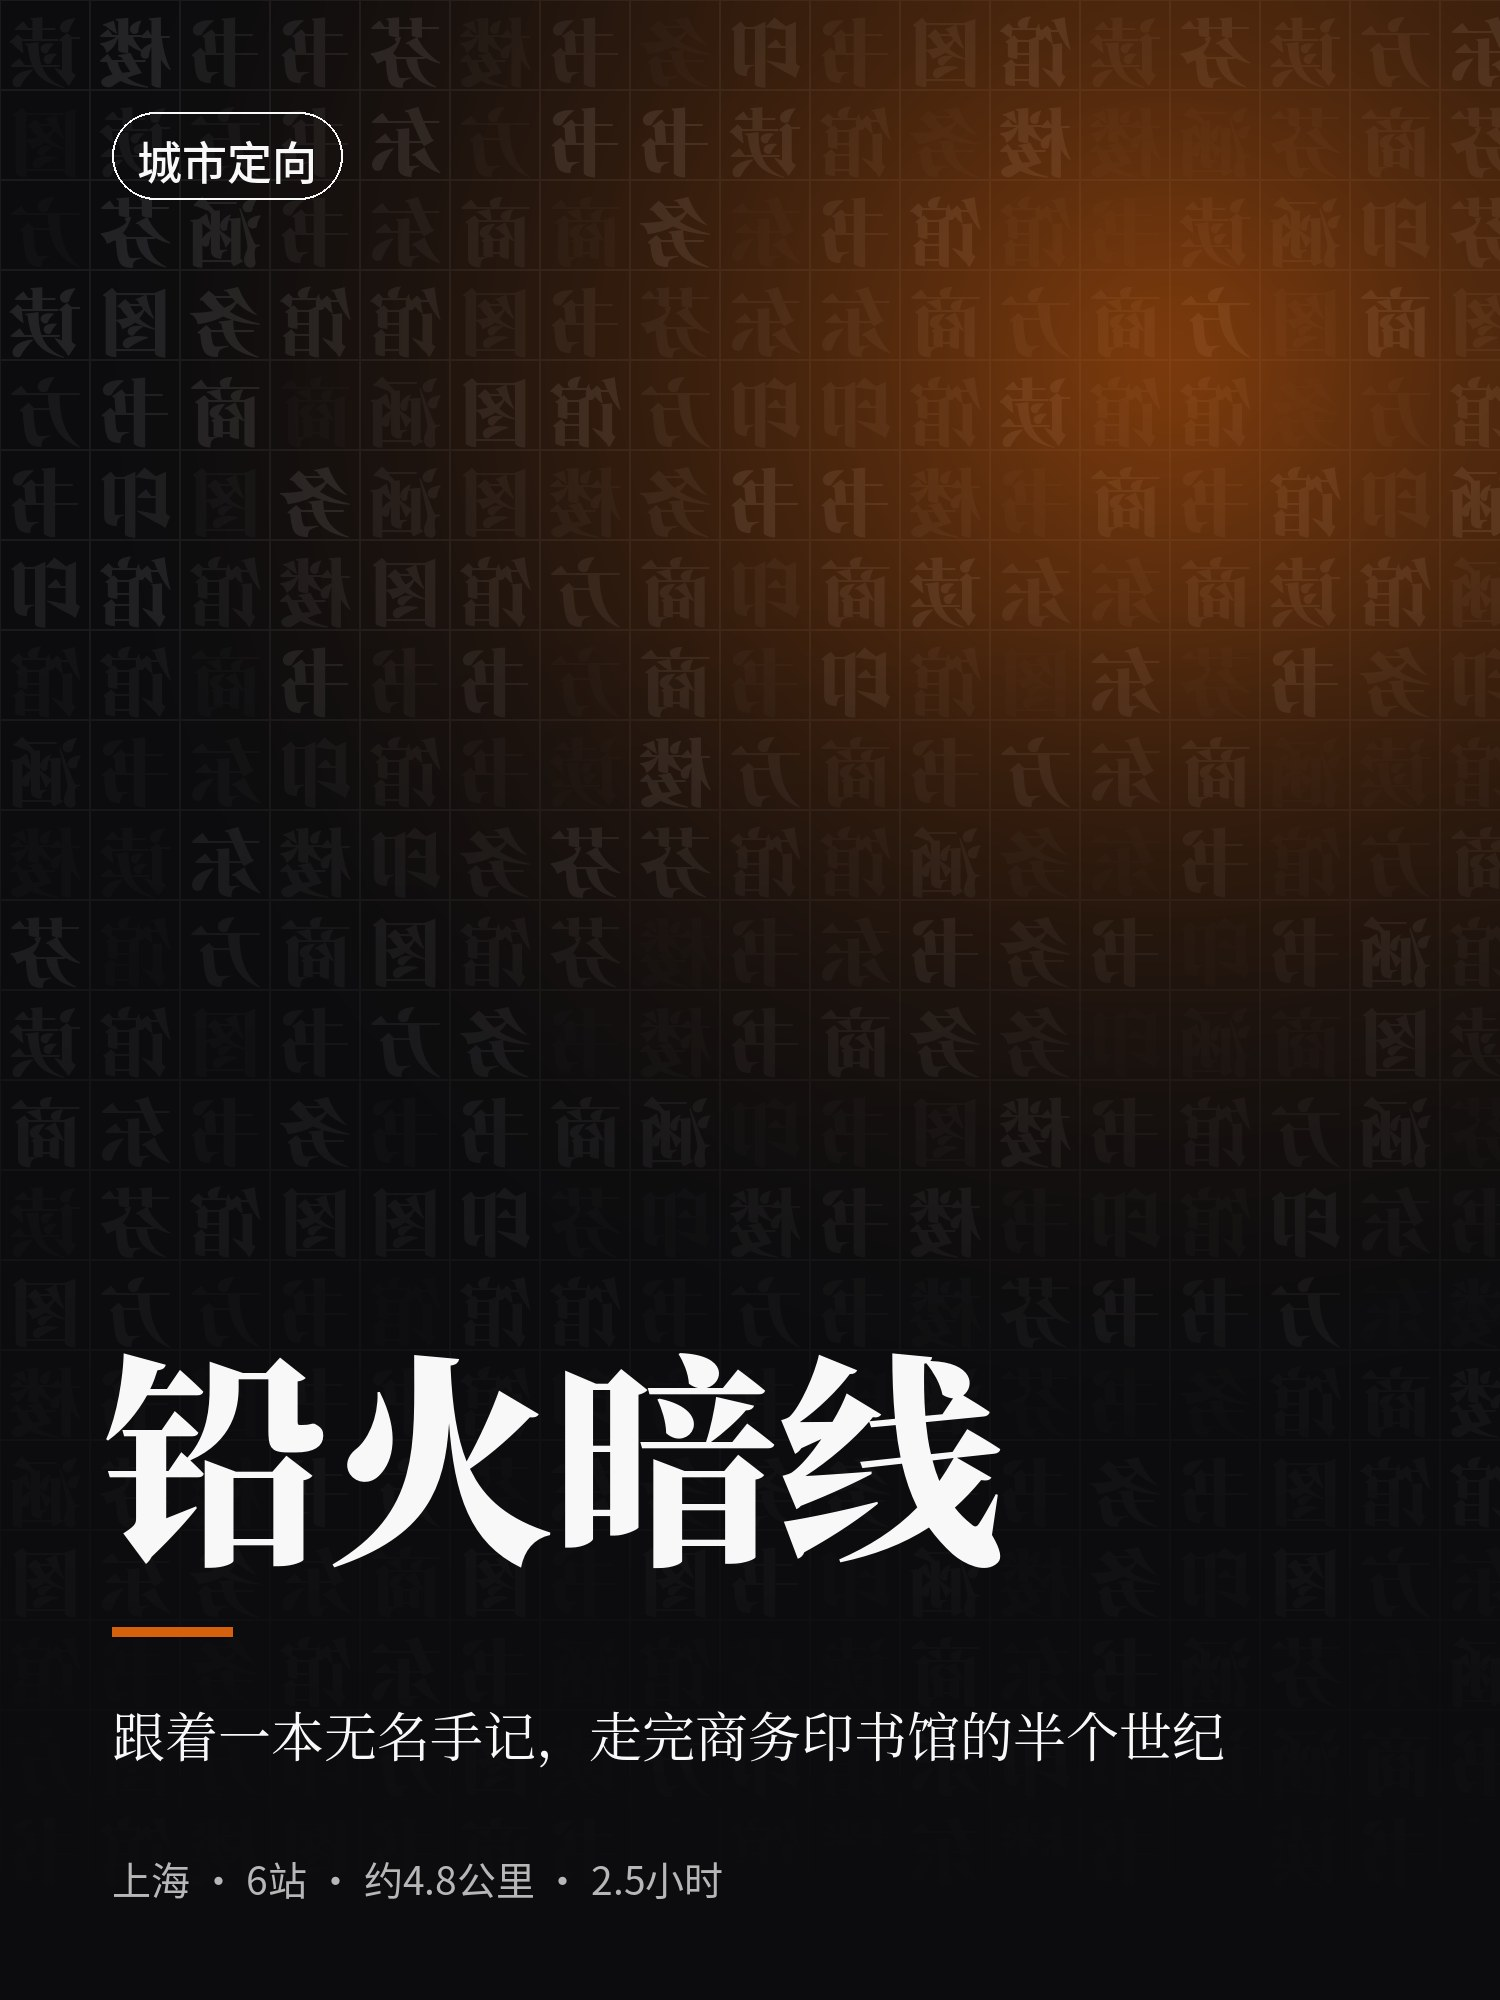
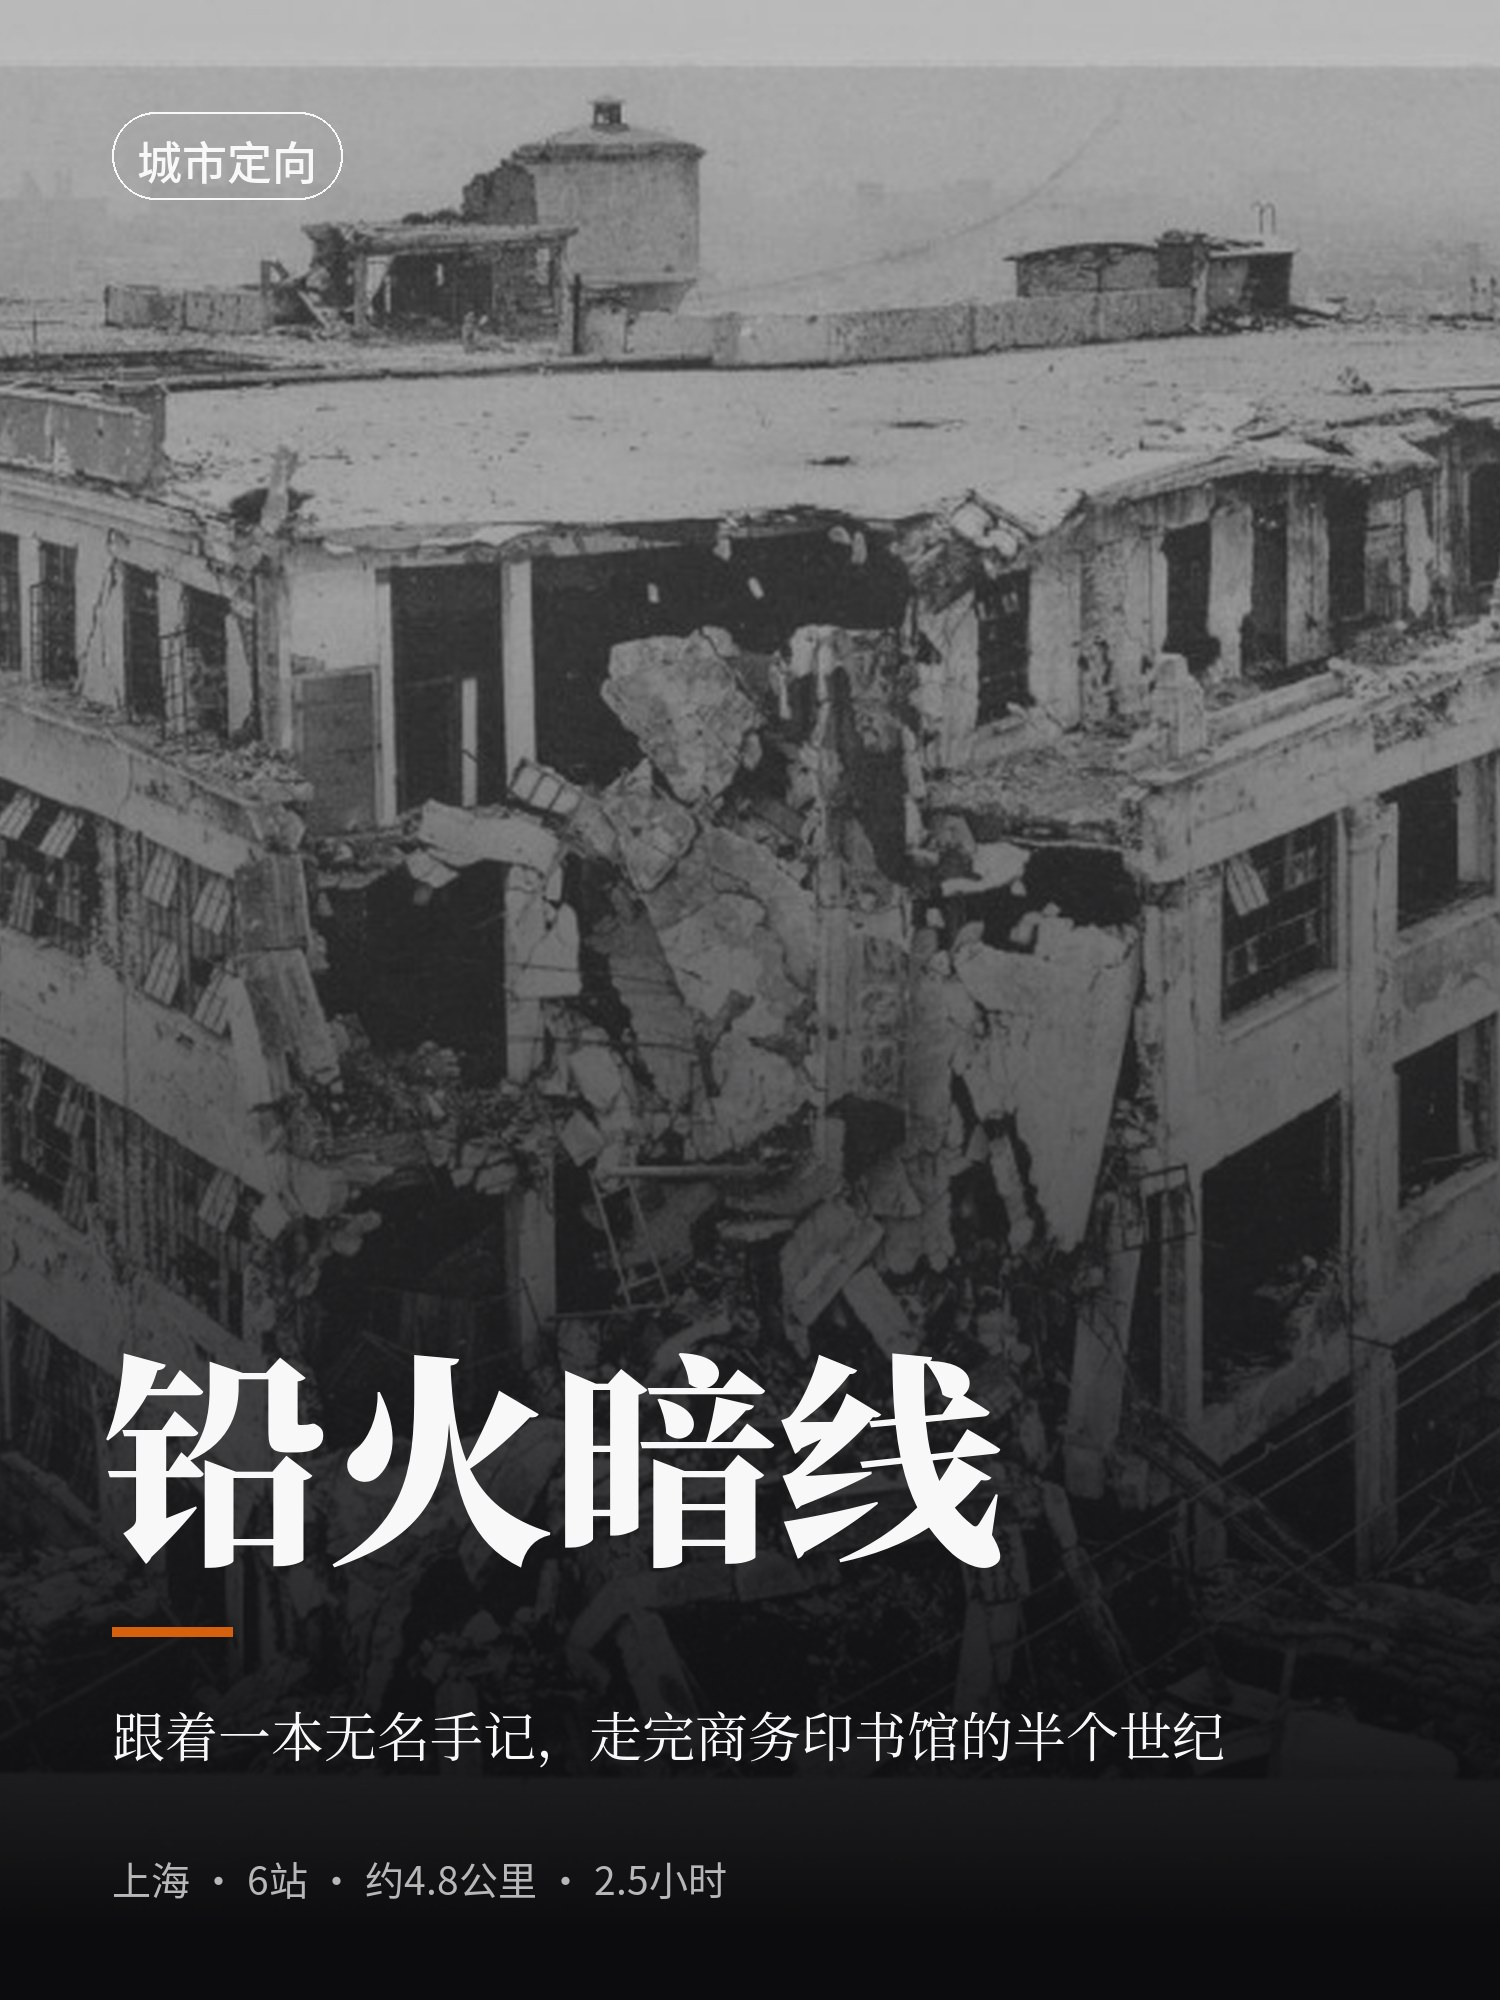
docs: 城市定向站点高清配图（Commons 现场核验许可，19/20）与照片底封面

diff --git a/docs/delivery/city-routes-20261029/images/CREDITS.md b/docs/delivery/city-routes-20261029/images/CREDITS.md
@@ -1,47 +1,37 @@
-# 图片与字体署名
+# 图片署名（下载时由 Commons API 自动核验）
 
-> **状态：站点照片还没有下载，署名也还没有最终核验。** 本次运行的网络策略挡住了 `commons.wikimedia.org` 和 `upload.wikimedia.org`，所以下表只是候选清单：
-> 文件名来自搜索结果里的真实 Commons 页面，作者、许可和尺寸是搜索摘要里能看到的信息，标“待核”的项目还没有核实。
-> 在能访问 Commons 的机器上运行 `python3 tools/fetch_images.py images/manifest.json images`，脚本会在下载时通过 Commons API 读取每个文件的作者和许可，
-> 只保留允许商用的许可（CC0、公有领域、CC BY、CC BY-SA），并自动用核验后的内容**覆盖**本文件。
+- `commercial-press/a1-movable-type.jpg`（A1）：User:CatOnMars / Wikimedia Commons / CC BY 4.0 — https://commons.wikimedia.org/wiki/File:Lead-made_Chinese_Movable_Types,_Hangzhou_National_Archives_112.jpg
+- `commercial-press/a1-metal-type.jpg`（A1）：Willi Heidelbach / Wikimedia Commons / CC BY 2.5 — https://commons.wikimedia.org/wiki/File:Metal_movable_type.jpg
+- `commercial-press/a3-foochow-road-1927.jpg`（A3）：佚名 / Wikimedia Commons / Public domain — https://commons.wikimedia.org/wiki/File:Shanghai_of_Today,_Plate_22_-_Foochow_(Fuzhou)_Road.jpg
+- `commercial-press/a3-henan-road.jpg`（A3）：Livelikerw / Wikimedia Commons / CC BY-SA 3.0 — https://commons.wikimedia.org/wiki/File:Middle_Henan_Rd._Shanghai.JPG
+- `commercial-press/a3-xia-ruifang.jpg`（A3）：File:SSID-11827378 創立三十年商務印書館志略.pdf: 商務印書館
+derivative work: Sebastian Wallroth / Wikimedia Commons / Public domain — https://commons.wikimedia.org/wiki/File:%E5%A4%8F%E7%91%9E%E8%8A%B3.jpg
+- `commercial-press/a4-shun-pao.jpg`（A4）：Livelikerw / Wikimedia Commons / CC BY-SA 4.0 — https://commons.wikimedia.org/wiki/File:Former_Shun_Pao_Building_Shanghai.JPG
+- `commercial-press/a5-ruins-1932.jpg`（A5）：佚名 / Wikimedia Commons / Public domain — https://commons.wikimedia.org/wiki/File:Commercial_Press_Ruins_Shanghai,_1932,_from_Japanese_postcard.jpg
+- `commercial-press/a6-press-1922.jpg`（A6）：Hawyih / Wikimedia Commons / Public domain — https://commons.wikimedia.org/wiki/File:Commercial_Press_Shanghai_1922.jpg
+- `commercial-press/a6-wang-yunwu.jpg`（A6）：中國公學民19年度冬季畢業紀念刊 / Wikimedia Commons / Public domain — https://commons.wikimedia.org/wiki/File:%E7%8E%8B%E9%9B%B2%E4%BA%942.jpg
+- `post/b1-customs-house.jpg`（B1）：Livelikerw / Wikimedia Commons / CC BY-SA 3.0 — https://commons.wikimedia.org/wiki/File:Shanghai_Customs_House.JPG
+- `post/b1-robert-hart.jpg`（B1）：Bain News Service, publisher / Wikimedia Commons / Public domain — https://commons.wikimedia.org/wiki/File:Sir_Robert_Hart,_seated_with_book_LCCN2014683527.jpg
+- `post/b2-bund-7.jpg`（B2）：Chainwit. / Wikimedia Commons / CC BY 4.0 — https://commons.wikimedia.org/wiki/File:Bangkok_Bank_Building_in_Shanghai_(Former_Great_Northern_Telegraph_Building)_(2024)_-_img_01.jpg
+- `post/b2-telegraph-1905.jpg`（B2）：Unlisted author. / Wikimedia Commons / Public domain — https://commons.wikimedia.org/wiki/File:Telegraph_Co_in_Shanghai_(1905).jpg
+- `post/b4-gpo-from-creek.jpg`（B4）：钉钉 / Wikimedia Commons / CC BY-SA 4.0 — https://commons.wikimedia.org/wiki/File:Shanghai_General_Post_Office_Building_from_Suzhou_Creek.jpg
+- `post/b5-gpo-2019.jpg`（B5）：Siyuwj / Wikimedia Commons / CC BY-SA 4.0 — https://commons.wikimedia.org/wiki/File:Former_Shanghai_General_Post_Office_Building,_2019-10-18_01.jpg
+- `post/b5-gpo-2019-b.jpg`（B5）：Siyuwj / Wikimedia Commons / CC BY-SA 4.0 — https://commons.wikimedia.org/wiki/File:Former_Shanghai_General_Post_Office_Building,_2019-10-18_02.jpg
+- `post/b6-red-revenue.jpg`（B6）：Post of China / Wikimedia Commons / Public domain — https://commons.wikimedia.org/wiki/File:Stamp_China_1897_overprint_1_dollar_on_3_cents.jpg
+- `post/b6-red-revenue-b.jpg`（B6）：大清郵政 / Wikimedia Commons / CC BY-SA 3.0 — https://commons.wikimedia.org/wiki/File:%E7%B4%85%E5%8D%B0%E8%8A%B1%E5%B0%8F%E4%B8%80%E5%85%83.jpg
+- `post/b7-suzhou-creek-1987.jpg`（B7）：Till Niermann / Wikimedia Commons / CC BY-SA 3.0 — https://commons.wikimedia.org/wiki/File:Shanghai_Suzhou_Creek_1987.jpg
 
-## 封面（已完成，可直接使用）
+## 主题简介页脚可直接粘贴
 
-- `covers/*/cover-3x4.jpg`、`cover-16x9.jpg`、`share-1x1.jpg`：本仓库原创生成（`tools/cover.py`）。底纹是程序画的铅字阵列和邮戳线条，**没有使用任何第三方图片**，也没有其他品牌的标志或水印。
-- 字体：Noto Serif SC（Black、Regular）、Noto Sans SC（Medium、Regular），**SIL Open Font License 1.1**（许可原文见 noto-cjk 仓库 Serif/LICENSE），来源 https://github.com/notofonts/noto-cjk 。
-  按 OFL 的规定，字体可以用来制作和商用图片，生成的图片不受 OFL 约束；本仓库没有分发字体文件本身。
+### commercial-press
+图片：User:CatOnMars（CC BY 4.0）；Willi Heidelbach（CC BY 2.5）；佚名（Public domain）；Livelikerw（CC BY-SA 3.0）；File:SSID-11827378 創立三十年商務印書館志略.pdf: 商務印書館
+derivative work: Sebastian Wallroth（Public domain）；Livelikerw（CC BY-SA 4.0）；佚名（Public domain）；Hawyih（Public domain）；中國公學民19年度冬季畢業紀念刊（Public domain）。来源 Wikimedia Commons。
 
-## 站点照片候选（待下载核验）
+### post
+图片：Livelikerw（CC BY-SA 3.0）；Bain News Service, publisher（Public domain）；Chainwit.（CC BY 4.0）；Unlisted author.（Public domain）；钉钉（CC BY-SA 4.0）；Siyuwj（CC BY-SA 4.0）；Siyuwj（CC BY-SA 4.0）；Post of China（Public domain）；大清郵政（CC BY-SA 3.0）；Till Niermann（CC BY-SA 3.0）。来源 Wikimedia Commons。
 
-| 站 | 文件代号 | Commons 文件名 | 作者（摘要） | 许可（摘要） | 尺寸 | 页面 |
-|---|---|---|---|---|---|---|
-| A1 | `a1-movable-type` | Lead-made Chinese Movable Types, Hangzhou National Archives 112.jpg | unknown | unverified - re-verify on file page | ?×? | https://commons.wikimedia.org/wiki/File:Lead-made_Chinese_Movable_Types,_Hangzhou_National_Archives_112.jpg |
-| A1 | `a1-metal-type` | Metal movable type.jpg | unknown | unverified - re-verify on file page | ?×? | https://commons.wikimedia.org/wiki/File:Metal_movable_type.jpg |
-| A3 | `a3-foochow-road-1927` | Shanghai of Today, Plate 22 - Foochow (Fuzhou) Road.jpg | unknown; publ. A. S. Watson & Co., Shanghai of To-day (1927) | PD-US (pub. before 1931) + PD-China (50-yr org. work) per snippet | 3040×1860 | https://commons.wikimedia.org/wiki/File:Shanghai_of_Today,_Plate_22_-_Foochow_(Fuzhou)_Road.jpg |
-| A3 | `a3-henan-road` | Middle Henan Rd. Shanghai.JPG | unknown | unverified - re-verify on file page | ?×? | https://commons.wikimedia.org/wiki/File:Middle_Henan_Rd._Shanghai.JPG |
-| A3 | `a3-xia-ruifang` | 夏瑞芳.jpg | unknown | unverified - re-verify on file page (likely PD-old, d.1914) | 501×670 | https://commons.wikimedia.org/wiki/File:%E5%A4%8F%E7%91%9E%E8%8A%B3.jpg |
-| A4 | `a4-shun-pao` | Former Shun Pao Building Shanghai.JPG | unknown | unverified - re-verify on file page | ?×? | https://commons.wikimedia.org/wiki/File:Former_Shun_Pao_Building_Shanghai.JPG |
-| A5 | `a5-ruins-1932` | Commercial Press Ruins Shanghai, 1932, from Japanese postcard.jpg | unknown (Japanese postcard, 1932) | unverified - re-verify on file page (likely PD-Japan/PD-China historic) | 1024×667 | https://commons.wikimedia.org/wiki/File:Commercial_Press_Ruins_Shanghai,_1932,_from_Japanese_postcard.jpg |
-| A6 | `a6-press-1922` | Commercial Press Shanghai 1922.jpg | unknown | unverified - re-verify on file page | 2848×2134 | https://commons.wikimedia.org/wiki/File:Commercial_Press_Shanghai_1922.jpg |
-| A6 | `a6-wang-yunwu` | 王雲五2.jpg | unknown | unverified - re-verify on file page | 1288×1950 | https://commons.wikimedia.org/wiki/File:%E7%8E%8B%E9%9B%B2%E4%BA%942.jpg |
-| B1 | `b1-customs-house` | Shanghai Customs House.JPG | Livelikerw | CC BY-SA 3.0 per snippet | 4912×3264 | https://commons.wikimedia.org/wiki/File:Shanghai_Customs_House.JPG |
-| B1 | `b1-bund-customs-historic` | The Bund with Chinese Custom House and tower (NYPL Hades-2359396-4043752).jpg | NYPL collection | unverified - re-verify on file page (NYPL historic, likely PD) | 4682×2947 | https://commons.wikimedia.org/wiki/File:The_Bund_with_Chinese_Custom_House_and_tower_(NYPL_Hades-2359396-4043752).jpg |
-| B1 | `b1-robert-hart` | Sir Robert Hart, seated with book LCCN2014683527.jpg | unknown (Library of Congress) | unverified - re-verify on file page (LoC, pre-1911, likely PD) | 5772×4228 | https://commons.wikimedia.org/wiki/File:Sir_Robert_Hart,_seated_with_book_LCCN2014683527.jpg |
-| B2 | `b2-bund-7` | Bangkok Bank Building in Shanghai (Former Great Northern Telegraph Building) (2024) - img 01.jpg | unknown | unverified - re-verify on file page | 4032×3024 | https://commons.wikimedia.org/wiki/File:Bangkok_Bank_Building_in_Shanghai_(Former_Great_Northern_Telegraph_Building)_(2024)_-_img_01.jpg |
-| B2 | `b2-telegraph-1905` | Telegraph Co in Shanghai (1905).jpg | unknown | unverified - re-verify on file page (1905, PD) | ?×? | https://commons.wikimedia.org/wiki/File:Telegraph_Co_in_Shanghai_(1905).jpg |
-| B4 | `b4-gpo-from-creek` | Shanghai General Post Office Building from Suzhou Creek.jpg | unknown | unverified - re-verify on file page | 4000×3000 | https://commons.wikimedia.org/wiki/File:Shanghai_General_Post_Office_Building_from_Suzhou_Creek.jpg |
-| B5 | `b5-gpo-2019` | Former Shanghai General Post Office Building, 2019-10-18 01.jpg | unknown | unverified - re-verify on file page | 5472×3648 | https://commons.wikimedia.org/wiki/File:Former_Shanghai_General_Post_Office_Building,_2019-10-18_01.jpg |
-| B5 | `b5-gpo-2019-b` | Former Shanghai General Post Office Building, 2019-10-18 02.jpg | unknown | unverified - re-verify on file page | 5472×3648 | https://commons.wikimedia.org/wiki/File:Former_Shanghai_General_Post_Office_Building,_2019-10-18_02.jpg |
-| B6 | `b6-red-revenue` | Stamp China 1897 overprint 1 dollar on 3 cents.jpg | unknown | unverified - re-verify on file page (1897 stamp, PD) | ?×? | https://commons.wikimedia.org/wiki/File:Stamp_China_1897_overprint_1_dollar_on_3_cents.jpg |
-| B6 | `b6-red-revenue-b` | 紅印花小一元.jpg | unknown | unverified - re-verify on file page (1897 stamp, PD) | ?×? | https://commons.wikimedia.org/wiki/File:%E7%B4%85%E5%8D%B0%E8%8A%B1%E5%B0%8F%E4%B8%80%E5%85%83.jpg |
-| B7 | `b7-suzhou-creek-1987` | Shanghai Suzhou Creek 1987.jpg | Till Niermann | unverified - re-verify on file page | 2500×1655 | https://commons.wikimedia.org/wiki/File:Shanghai_Suzhou_Creek_1987.jpg |
 
-## 主题简介页脚（核验后由脚本生成，在此之前用下面这句）
-
-图片：见各站署名，均来自维基共享资源，按其许可使用。
-
-## 缺口
-
-- 金城银行大楼（A2）、延安东路 34 号（B3）：没有找到可用的 Commons 照片，建议发布者在现场自己拍一张外立面。
-- 大龙邮票：没有找到干净的高清扫描（只找到 797 px 的展柜照片）。
-- 1932 年商务印书馆废墟：Commons 上的版本最大只有 1024 px。HPC Bristol 有更清晰的照片，但版权属于 Ephgrave 家族，不是开放许可，**不得使用**。
+## 封面
+- `covers/commercial-press/*`：底图 `commercial-press/a5-ruins-1932.jpg`（公有领域），字体 Noto Serif SC / Noto Sans SC（SIL OFL 1.1）。
+- `covers/post/*`：底图 `post/b4-gpo-from-creek.jpg`（CC BY-SA 4.0，署名见上），字体同上。
+- `covers/*-text/*`：无照片的纯排版备用版。
